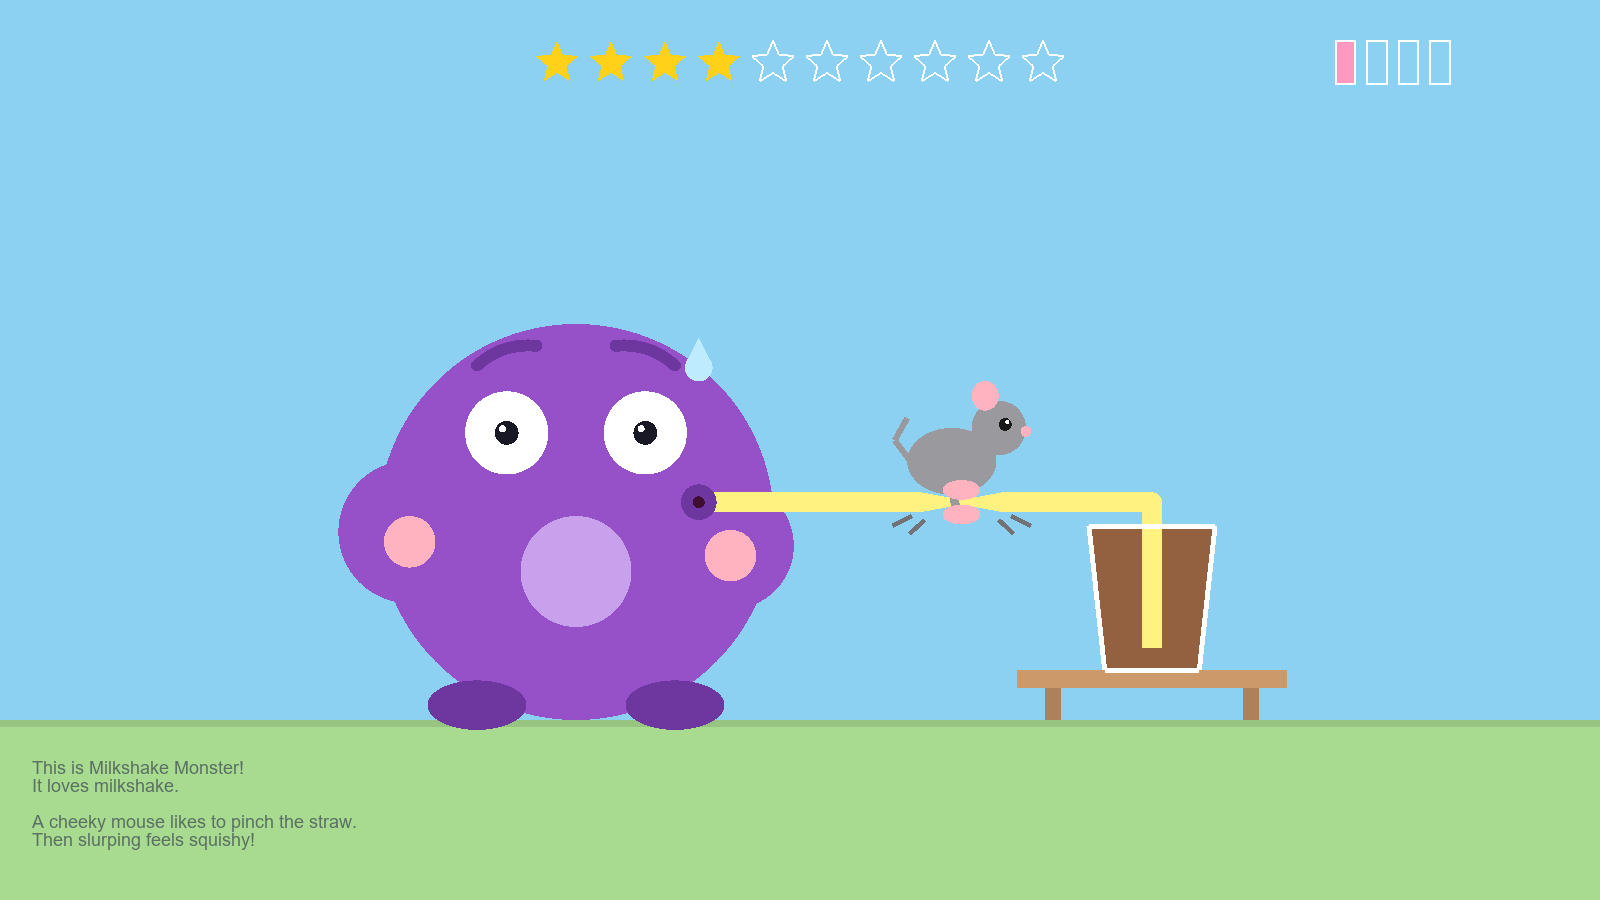
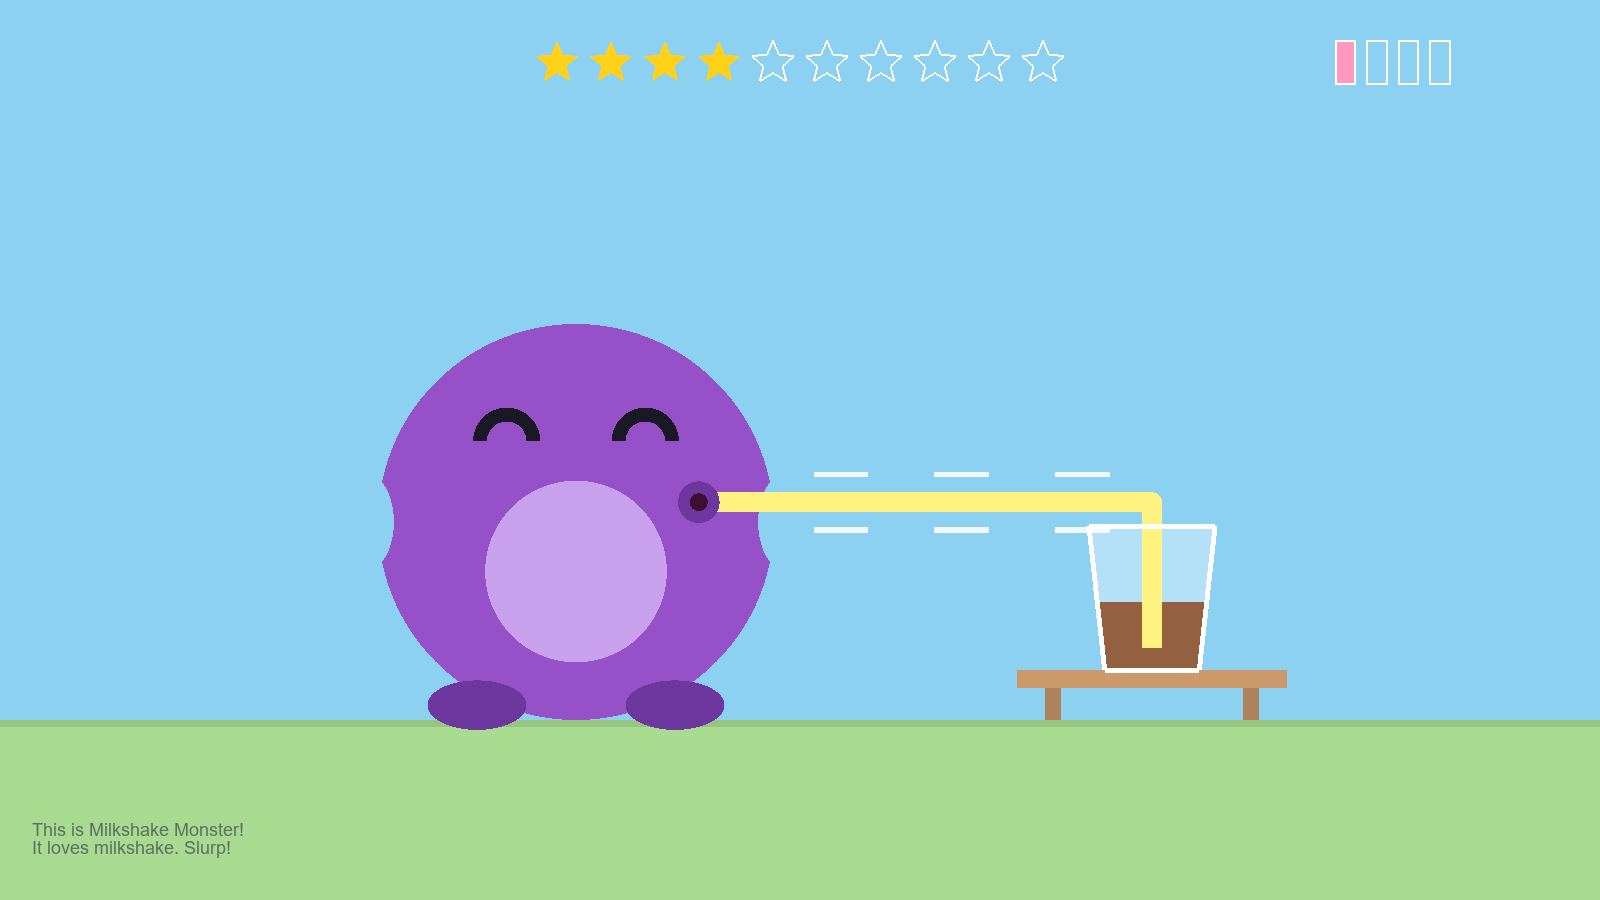
Kids handbook: breath-driven slurps, reference slurp, poses and reveal
The page now describes the task as it runs: the child's breath drives the
belly and the milkshake (saturating, a fixed third per counted slurp), the
reference slurp from the free trials, the poses and cue sounds, the story
in three beats, the practice reveal, star flight, cup tip and nap, and the
two-card answer screen. Running: Physio Recorder with the RRST preset
first, the sensor required by default, how to run without it, the console
lines. Data: tr.slurps and the new CSV columns. New open question: the
fill-speed leak and the adult feedback on/off comparison.

Key frames rendered from kidsBeat in a 1600x900 Psychtoolbox window:
01_story (beat 1), 02_mouse, 10_cupdone (cup tip and celebrate), 12_done,
new 13_reveal (catch: the mouse asleep) and 14_story2 (the pinch).

diff --git a/handbook/v2/kids.md b/handbook/v2/kids.md
@@ -2,13 +2,16 @@
 
 !!! warning "In development: not for use with children yet"
     RRST-Kids ("Milkshake Monster") has run on the real device with one adult tester
-    only. The child-facing text is English only, the 85 % cap has not been checked on
-    a flow rig, and two of its data-quality flags need redesign (see
+    only, before the breath-driven version. The breath feedback has run only with
+    synthetic airflow, the cue sounds have not been checked by ear, the child-facing
+    text is English only, and the 85 % cap has not been checked on a flow rig (see
     [Open questions](#open-questions)). It lives on the `kids-variant` branch, in
-    `task/RRST_kids/`.
+    `task/RRST_kids/`. The next step is the pilot protocol in
+    `docs/kids_pilot_protocol_2026-10-30.md`: an experimenter self-test, then one
+    child as a usability check.
 
 A child-friendly RRST for children of about 4-5 years, on the same device and device
-layer as RRST 2.0.
+layer as RRST 2.0, with the airflow sensor driving the screen.
 
 ## The task
 
@@ -16,8 +19,10 @@ A purple monster drinks milkshake through a long straw (the mouthpiece). A cheek
 mouse sometimes pinches the straw, so the slurp feels "squishy". **On each trial the child
 takes three slurps at the same level and says whether the mouse pinched the straw**: a
 yes/no detection task, not the adult two-breath comparison. The experimenter starts the
-slurps when the child is ready, so the child never has to catch a timed cue. Every answer earns a star; ten stars finish a
-milkshake and earn a real sticker from the experimenter.
+slurps when the child is ready, and then **the child's own breath drives the monster**:
+the airflow sensor sees each slurp, the belly fills, and the milkshake drains a third
+per slurp. Nothing is paced, so there is no timed cue to catch. Every answer earns a
+star; ten stars finish a milkshake and earn a real sticker from the experimenter.
 
 | | Adult RRST 2.0 | Kids |
 |---|---|---|
@@ -28,78 +33,169 @@ milkshake and earn a real sticker from the experimenter.
 | Start | Psi's choice | 70 % |
 | Jumps | any | at most 15 % above the highest level so far |
 | Trials | set by the study | 30 Psi + 10 catch; stops early when SE < 8 after 20 Psi trials |
-| Breathing | timed inhale cue | experimenter starts the trial; 3 slurps paced at 1.2 s in, 1.8 s out, not enforced; Space ends them early |
-| Answer | participant clicks | **experimenter clicks** the face the child names or points at |
-| Feedback | none | practice: the truth after every trial; main trials: a star for every answer |
+| Breathing | timed inhale cue | experimenter starts the trial; the **child's breath drives the screen** (airflow sensor): the belly fills with the slurp, each slurp that counts drains a third of the milkshake. The trial goes on after 3 counted slurps; Space ends them early. Without the sensor: a timed animation (1.2 s in, 1.8 s out, x3) |
+| Answer | participant clicks | **experimenter clicks** one of two equally nice scene cards ("easy": the mouse asleep; "squishy": the mouse pinching), the one the child names or points at |
+| Feedback | none | practice: the truth after every trial, shown (the mouse pinching or asleep); main trials: a star flies into its slot for every answer |
 
 Why yes/no: a 4-year-old struggles to hold two breaths in memory and compare them.
 The cost is that the threshold is a detection threshold that absorbs the child's
 yes-bias, not directly comparable to the adult 2AFC threshold, and yes/no needs more
 trials for the same precision.
 
+## How the breath drives the screen
+
+The SFM3019 at the circuit inlet streams flow over LSL (stream `Flow`, see
+[Airflow sensor](../shared/airflow-sensor.md)). The task reads it and detects each
+**slurp**: flow above 3 slm for 50 ms starts one, below it for 150 ms ends it. The
+T-valve's small backflow after each breath is negative and never starts a slurp.
+
+- **The belly** shows the current slurp's volume, but saturates: it is full at 40 % of
+  the child's reference slurp, so loaded and unloaded slurps both fill it. The screen
+  must show *that* the child slurped, not *how hard* it was, or the child could answer
+  from the picture instead of the feeling.
+- **The milkshake** drains a fixed third per counted slurp, on the slurp's end, with
+  bubbles. Never in proportion to the flow.
+- **A slurp counts** when its volume is at least 25 % of the reference slurp and at
+  least 0.10 L. A smaller one is "weak": the belly goes down, nothing drains, the
+  monster tilts its head ("hmm?", never sad) with a soft two-note sound, and the
+  child simply slurps again. A "slurp" longer than 6 s is a leak or draught, not
+  counted.
+- **The reference slurp** is set by the two free trials at the start of practice
+  (three slurps each, no question): the median volume of every free slurp the sensor
+  saw (counted or weak), clamped to 0.15-2 L. Before it exists the default is 0.6 L, so a small child's free slurps can
+  all be weak against it; they still set the reference, and the free slurps never show
+  the "try again" pose: they are the tutorial.
+
 ## A trial, frame by frame
+
+The child's screen has no text to read: every state has a pose and a sound. The
+sentence in the bottom-left corner is for the experimenter.
 
 | | |
 |---|---|
-| ![Story screen](../assets/img/kids/01_story.png) | **Story.** Shown once. The experimenter tells the story and presses Space. Stars (top) and cups (top right) show progress. |
-| ![Mouse running](../assets/img/kids/02_mouse.png) | **Mouse.** The mouse scampers along the bottom while the wedge moves (at least 1.5 s). On catch trials the wedge moves to 0. |
-| ![Ready](../assets/img/kids/03_cue.png) | **Ready to slurp?** The monster waits. When the child has the mouthpiece in and is ready, the experimenter presses Space. |
-| ![Inhale](../assets/img/kids/04_inhale.png) | **Big slurp!** The belly grows and a third of the milkshake drains (1.2 s). |
-| ![Exhale](../assets/img/kids/05_exhale.png) | **Ahhh.** The belly shrinks and bubbles rise (1.8 s). Then two more slurps, about 9 s in all. The child doesn't have to keep time with the monster; once they've had their slurps, Space goes straight to the question. |
-| ![Question](../assets/img/kids/06_question.png) | **Question.** "Did the mouse pinch the straw?" The child says or points; the experimenter clicks that face. A white frame marks the face under the pointer. |
-| ![Answer registered](../assets/img/kids/07_answered.png) | **Answer registered.** The chosen face is framed and the other fades for 0.5 s. |
-| ![Practice feedback](../assets/img/kids/08_feedback.png) | **Practice feedback.** Practice only: the truth after every trial. |
-| ![Star](../assets/img/kids/09_star.png) | **Star.** Main trials: a star for every answer, right or wrong. |
-| ![Cup finished](../assets/img/kids/10_cupdone.png) | **Cup finished.** Ten stars: the monster dances; give a sticker. |
-| ![Rest](../assets/img/kids/11_rest.png) | **Rest.** 45 s every 10 trials, then Space to go on. |
-| ![Done](../assets/img/kids/12_done.png) | **Done.** |
+| ![Story, beat 1](../assets/img/kids/01_story.png) | **Story, beat 1.** Shown once, in three beats; Space moves on from each, so the experimenter tells the story over them. The monster slurps happily, the milkshake drains, then "ahh" with bubbles. Stars (top) and cups (top right) show progress. |
+| ![Story, beat 2](../assets/img/kids/14_story2.png) | **Story, beat 2.** The mouse pinches the straw (scamper sound); the monster strains, cheeks puffed. Beat 3: the mouse runs off and the monster relaxes. |
+| ![Mouse running](../assets/img/kids/02_mouse.png) | **Mouse.** The mouse scampers along the bottom (scamper sound) while the wedge moves, at least 1.5 s. On catch trials the wedge moves to 0; the screen is the same. |
+| ![Ready](../assets/img/kids/03_cue.png) | **Ready to slurp?** The monster looks at the child, eyebrows up, mouth open on a wiggling straw, with a chime. When the child has the mouthpiece in and is ready, the experimenter presses Space. |
+| ![Slurp](../assets/img/kids/04_inhale.png) | **Slurp.** As soon as the child inhales, the monster slurps (cheeks in, happy eyes, lines running up the straw) and the belly fills with the breath. |
+| ![Ahh](../assets/img/kids/05_exhale.png) | **Ahhh.** When the slurp ends and counts, a third of the milkshake drains, bubbles rise and the belly goes down. After the third counted slurp the question comes; the child takes them at their own pace (6-8 s for three). |
+| ![Question](../assets/img/kids/06_question.png) | **Question.** "Did the mouse pinch the straw?" Two equally bright scene cards: the mouse asleep ("easy") and the mouse pinching ("squishy"), a cheerful monster on both. The child says or points; the experimenter clicks that card. A white ring marks the card under the pointer. |
+| ![Answer registered](../assets/img/kids/07_answered.png) | **Answer registered.** The chosen card is framed and the other fades for 0.5 s. |
+| ![Practice reveal, pinch](../assets/img/kids/08_feedback.png) | **Practice reveal.** Practice only, after every answer: the truth for 1.5 s. On a loaded trial the mouse is shown pinching the straw, in a spotlight, with the scamper sound... |
+| ![Practice reveal, asleep](../assets/img/kids/13_reveal.png) | **...and on a catch trial it is asleep under the table.** |
+| ![Star](../assets/img/kids/09_star.png) | **Star.** Main trials: for every answer, right or wrong, a star flies from the monster's belly into the next slot, with a sparkle. |
+| ![Cup finished](../assets/img/kids/10_cupdone.png) | **Cup finished.** The tenth star: the empty glass tips into the done row at the top right (fanfare), then the monster dances with its arms up and a new milkshake in the next flavour (pink, chocolate, mint, blueberry). Give a sticker. |
+| ![Rest](../assets/img/kids/11_rest.png) | **Rest.** Every 10 trials the monster naps (Z's) for 45 s while a bar drains; then it stretches, and "Ready to slurp?" comes back. Space goes on. |
+| ![Done](../assets/img/kids/12_done.png) | **Done.** The monster celebrates. |
+
+During the slurps the monster waits with an idle face (looking at the cup, blinking)
+until the child inhales. A weak slurp gets the head-tilt "try again" pose while the
+belly goes down; a time-out (8 s without a slurp) only prompts the experimenter, on
+the console.
 
 ## Session
 
 1. **Calibration**, before the child sits down: tube in, nobody on the mouthpiece. The
    wedge closes fully once (about 0.5 min).
-2. **Story**, then **practice**: 2 free slurps without a question, then 6 trials (80,
-   0, 80, 0, 75, 0) with feedback. Pass: 5 of 6 right, including both 80s. One retry;
-   a second failure ends the session as `PracticeFailed_`, which is itself a result.
-3. **Main trials**: up to 40, a rest every 10, about 15-20 s per trial.
-4. **Sticker.** About 15-20 minutes in all.
+2. **Story** (three beats), then **practice**: 2 free trials of three slurps without a
+   question (they set the reference slurp), then 6 trials (80, 0, 80, 0, 75, 0), each followed by
+   the reveal. Pass: 5 of 6 right, including both 80s. One retry; a second failure ends
+   the session as `PracticeFailed_`, which is itself a result.
+3. **Main trials**: up to 40, a nap every 10. With breath-driven slurps a trial is
+   about 12-15 s.
+4. **Sticker.** About 12-20 minutes in all.
 
 ## Running it
+
+**First, start the Physio Recorder** with the **RRST** preset and check the signals,
+as for the adult task ([Running the 2.0 task](running.md),
+[Recording physiology and airflow](../shared/recording.md)). The preset starts the
+flow stream (`flow_lsl.py`); the task opens the `RRST` marker stream at launch and the
+recorder starts recording when it appears. A real session holds before calibration
+with **NOTHING IS RECORDING** until a recorder is connected.
+
+**The airflow sensor is required by default.** At launch the task looks for the
+`Flow` stream (10 s), reads it for 1 s with nobody breathing, and either prints
+`Airflow sensor OK: 0.0 slm at rest` or stops with the problem and its fix (no
+stream: start the Physio Recorder or `flow_lsl.py`; frozen, reversed, out of range or
+constant flow: the message names the check). Nothing moves before this check passes.
 
 ```matlab
 cd <repo>/task/RRST_kids
 addpath('config');
 
-% With the device (on the stim laptop it's COM7, through the USB hub)
+% With the device (on the stim laptop it's COM7, through the USB hub) and the sensor
 cfg = kidsConfig(); cfg.device.port = "COM7";
 runKidsRRST(cfg)
 
-% Without a device or a child: simulated device and child, small window, 5x faster
+% Without the airflow sensor: the timed animation, no breath feedback
+cfg = kidsConfig(); cfg.device.port = "COM7";
+cfg.flow.enabled = false; cfg.flow.feedback = "none";
+runKidsRRST(cfg)
+
+% Without a device or a child: simulated device, child and airflow, small window, 5x faster
 cfg = kidsConfig(); cfg.device.mock = true; cfg.smallWindow = true;
 cfg.debug.simulateChild = [70 8 0.1 0.1];   % [threshold slope falseAlarm lapse]
 cfg.debug.timeScale = 0.2;
+cfg.markers.lsl = false;                     % no LSL needed for a test run
 runKidsRRST(cfg)
 ```
 
-MATLAB asks for the child ID, then for Enter once the tube is in and nobody is on the
-mouthpiece (calibration).
+`cfg.flow.feedback = "none"` with the sensor on keeps the timed animation but still
+records every slurp (the comparison run of the pilot protocol). MATLAB asks for the
+child ID, then for Enter once the tube is in and nobody is on the mouthpiece
+(calibration).
+
+**Console** (the experimenter's view; the child sees none of it):
+
+```
+Airflow sensor OK: 0.0 slm at rest
+Free slurp 1: 0.14 L, peak 11 slm (1 of 3; small, sets the reference).
+Reference slurp 0.15 L (median of 6 free slurps: 0.13 L), peak 11 slm. Belly full at 0.06 L; a slurp counts above 0.10 L.
+Slurp 1 counted: 0.18 L, peak 13 slm (1 of 3).
+Slurp 2 too weak (0.06 L; a slurp counts from 0.10 L): not counted, try again.
+No slurp seen for 8 s: mouthpiece in? Space = go on, x = repeat, Esc = abort
+Slurp 3 lasted over 6 s: not counted. Flow is not returning to zero: check the circuit for a leak or a draught at the inlet.
+Airflow stream lost: this trial finishes with the timed animation (flowLost). ...
+Airflow stream is back.
+```
+
+If no free slurp was seen at all, the reference stays at 0.6 L and the console says
+so in red: check the mouthpiece. A lost stream never stops the session: the trial
+finishes with the timed animation and the task looks for the stream again before the
+next trial.
 
 **Experimenter controls**
 
 | Input | Effect |
 |---|---|
-| Click a face (any button) | That answer. Clicks in the middle strip are ignored. |
+| Click a card (any button) | That answer. Clicks in the middle strip are ignored. |
 | Left arrow / `n` | "Easy" (no) |
 | Right arrow / `y` | "Squishy!" (yes) |
-| `x` | Bad breath: the trial is repeated later |
-| Space | Moves on from the story, ready and rest screens; during a question, pauses (wedge to 0) |
+| `x` | Bad breath: the trial is repeated later (also during the slurps) |
+| Space | Moves on from each story beat, "Ready to slurp?" and after the nap. During the slurps: go on to the question with the slurps so far (flagged `shortSlurps`; with none counted the trial is repeated later). During a question: pause (wedge to 0) |
 | Esc | Abort: wedge parked open, data saved as `Aborted_` |
 
-**Data** are saved to `data/raw/`: `RRSTkids_<ID>_<date>.mat` (every trial, practice,
-the Psi posterior, flags, configuration, the device's move log and transcript) and a
-`.csv` with one row per trial. Prefixes: `MOCK_`, `SIM_`, `Aborted_`, `Error_`,
-`PracticeFailed_`. For a QC figure (trials with the threshold estimate, P("squishy")
-with the fitted curve, response times, summary):
+## Data
+
+Saved to `data/raw/` (never committed): `RRSTkids_<ID>_<date>.mat` (every trial
+including repeats, practice, the Psi posterior, flags, configuration, the device's
+move log and transcript) and a `.csv` with one row per trial. Prefixes: `MOCK_`,
+`SIM_`, `Aborted_`, `Error_`, `PracticeFailed_`.
+
+Airflow per trial: in the `.mat`, `tr.slurps` holds every slurp the detector saw,
+counted or not: `onsetT` and `endT` (GetSecs clock), `durationS`, `peakSlm`,
+`volumeL`, `counted`, and `type` (`end` counted, `weak`, `overlong`, or `interrupted`
+by Space or Esc). `vars.flowSource` says whether the flow was `live`, `simulated` or
+`off`. The `.csv` adds `nSlurps` (counted slurps), `slurpVolumeL` and `slurpPeakSlm`
+(means over the counted slurps, empty if none), `shortSlurps` (Space ended the slurps
+before three counted) and `flowLost` (the stream was lost during the trial); `slurpT`
+is the length of the slurp phase. The recorder's `.xdf` has the flow with a marker at
+every slurp's onset and end (`slurp_<k>_onset`, `slurp_<k>_end_<L>_<slm>`,
+`slurp_<k>_weak`, `slurp_<k>_overlong`).
+
+For a QC figure (trials with the threshold estimate, P("squishy") with the fitted
+curve, response times, summary):
 
 ```matlab
 qcKids("data/raw/RRSTkids_9001_2026-10-28_1712.mat")
@@ -117,14 +213,27 @@ qcKids("data/raw/RRSTkids_9001_2026-10-28_1712.mat")
 ## First adult pilot (2026-10-28)
 
 One adult tester, real device, 2 blocks (21 main trials, 5 catch), stopped with Esc.
-Practice 6/6 right. Threshold 79.2 % (SE 4.7), yes-bias 0.28, false alarms 2 of 5
-catch trials. The "unusable" flag fired on hits at 80 % (1 of 3), the misfire
-described below.
+Timed animation (before the breath feedback). Practice 6/6 right. Threshold 79.2 %
+(SE 4.7), yes-bias 0.28, false alarms 2 of 5 catch trials. The "unusable" flag fired
+on hits at 80 % (1 of 3), the misfire described below.
 
 ![QC figure of the first adult pilot](../assets/img/kids/pilot_qc_2026-10-28_1712.png)
 
 ## Open questions
 
+- **Does the breath feedback leak the level?** Peak flow and volume both fall with
+  obstruction (bench 2026-10-28, one adult: 84 to 36 slm, 1.85 to 0.80 L between 0
+  and 95 %). The belly saturates at 40 % of the reference slurp, so it fills on loaded
+  slurps too, but it fills a little *slower* on them: that residual difference in fill
+  speed could let a child answer from the picture. Check before any child sees the
+  breath mode: an adult runs twice, feedback on (`cfg.flow.feedback = "breath"`) and
+  off (`"none"`, sensor still recording), and compares catch-trial false alarms, the
+  fitted guess rate, the threshold and its SE. A difference of more than two false
+  alarms or a guess rate that moves by more than 0.15 calls for a second pair of runs
+  (pilot protocol, Session A). `{{FLOW_FEEDBACK_MODE}}` stays "breath" unless that
+  comparison says otherwise.
+- **The minimum slurp for a child.** 25 % of the reference and at least 0.10 L are
+  guesses; the first child's free slurps and weak count will tell.
 - **The cap.** 85 % comes from one adult run. Children breathe with less flow, so the
   same obstruction gives less pressure drop; check 70-85 % on a flow rig. The adult
   tester's threshold was 79 %, close to the cap: a child whose threshold is above
@@ -134,5 +243,6 @@ described below.
   well below 80, or be dropped.
 - **The false-alarm flag is noisy** with about 8 catch trials; more catch trials or a
   rule based on the estimated guess rate would be steadier.
-- Translations (Swiss German, Danish); cue sounds; whether to record mouth pressure to
-  flag weak slurps.
+- Translations (Swiss German, Danish). The cue sounds' loudness over the rain is still
+  to be checked by ear. The lag from breath to screen is still to be measured
+  (`TODO(measure)` in [Airflow sensor](../shared/airflow-sensor.md#live-feedback-check)).
